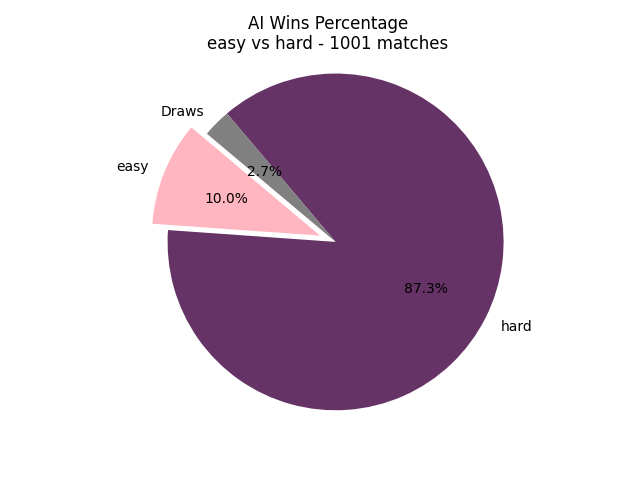
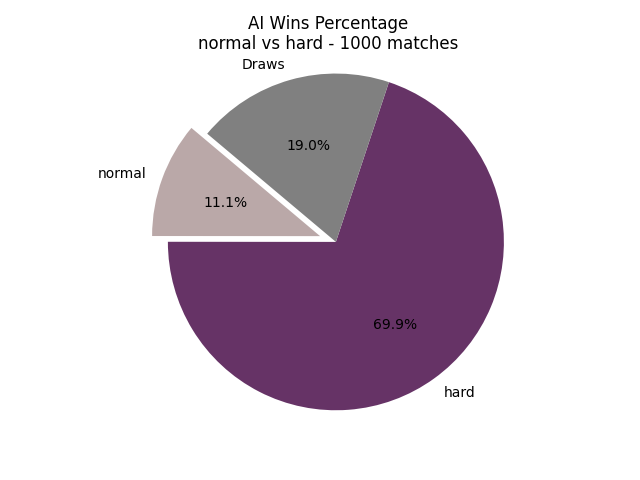
-fix error

diff --git a/src/performance/performance.py b/src/performance/performance.py
@@ -95,6 +95,6 @@ def plot_average_score_per_game(first_ai, second_ai, file_path):
 first_ai = 1
 second_ai = 2
 file_path = 'src/performance/'+dict_ai[first_ai]+"_vs_"+dict_ai[second_ai]+'.txt'
-plot_average_score_per_game(first_ai, second_ai, file_path)
-# total_match, average_win_score_first_ai, average_win_score_second_ai, total_draw = get_wins_result_tournament(file_path, first_ai, second_ai)
-# draw_circle_graph(first_ai, second_ai,total_match , average_win_score_first_ai, average_win_score_second_ai, total_draw)
+#plot_average_score_per_game(first_ai, second_ai, file_path)
+total_match, average_win_score_first_ai, average_win_score_second_ai, total_draw = get_wins_result_tournament(file_path, first_ai, second_ai)
+draw_circle_graph(first_ai, second_ai,total_match , average_win_score_first_ai, average_win_score_second_ai, total_draw)
